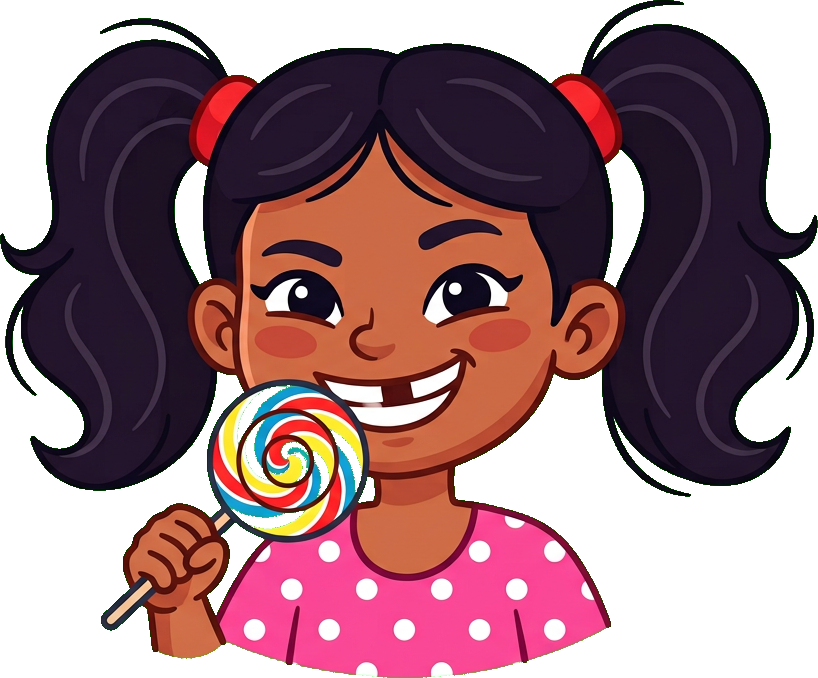
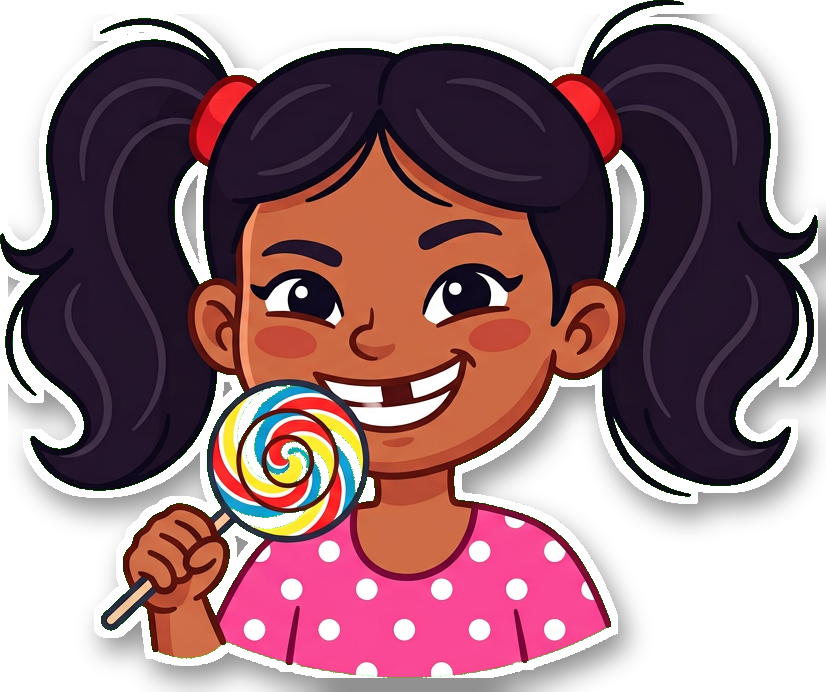
THE FIX: ffmpeg -filter:v silently overrode -vf (landscape bg bug) — setpts merged into chain; 17-cast white-outline stickers; yt_clip bg (mute+mirror+grade transform); QA v3 background-invariant; ensemble ep004

diff --git a/scripts/qa_strict.py b/scripts/qa_strict.py
@@ -1,9 +1,12 @@
-"""STRICT QA v2 — FRAME-DIFF based (color counting was fooled by colorful bg).
+"""STRICT QA v3 — BACKGROUND-INVARIANT sticker proof.
 
-Method: t≈0.08s is a clean reference (slide-ins still offscreen, zone empty).
-Each stickered speaker's mid-window frame vs reference: strong-diff fraction
-in the sticker zone must exceed threshold => sticker actually rendered.
-Same for the robot visor zone during narrator lines. Exits 1 on failure.
+Compares the FINAL video frame at time T against the RAW bg.mp4 frame at the
+SAME time T, inside the sticker zone. diff = exactly the sticker/robot pixels
+(bgs can't fake it, motion can't mask it). One speaker per window => the diff
+at a speaker's mid-line is THEIR sticker.
+
+Usage: qa_strict.py <video> <timeline.json> [<bg.mp4>]
+If bg.mp4 missing (older renders), falls back to v2 frame-diff with a warning.
 """
 import json, subprocess, sys
 from pathlib import Path
@@ -14,16 +17,16 @@ import config
 
 VIDEO = Path(sys.argv[1])
 TL = json.loads(Path(sys.argv[2]).read_text())
-ZONE = (24, 900, 700, 1900)          # sticker+robot zone
-REF_T = 0.08                          # before any slide-in completes
-THRESH = 0.10                         # strong-diff fraction => sticker present
+BG = Path(sys.argv[3]) if len(sys.argv) > 3 else \
+    VIDEO.parent / f"{VIDEO.stem}_bg.mp4"
+ZONE = (24, 700, 700, 1900)   # sticker/robot zone (below caption area)
+THRESH = 0.02                  # 2% strong-diff => sticker present
 
 
-def grab(t):
+def grab(src, t, name):
     subprocess.run(["ffmpeg", "-y", "-v", "error", "-ss", str(t),
-                    "-i", str(VIDEO), "-frames:v", "1", "/tmp/qa_v2.png"],
-                   check=True)
-    return Image.open("/tmp/qa_v2.png").convert("RGB")
+                    "-i", str(src), "-frames:v", "1", name], check=True)
+    return Image.open(name).convert("RGB")
 
 
 def strong_diff(a, b):
@@ -33,31 +36,35 @@ def strong_diff(a, b):
 
 
 def main():
-    ref = grab(REF_T)
+    have_bg = BG.exists()
+    if not have_bg:
+        print("[qa] WARNING: no bg.mp4 — falling back to v2 (less reliable)")
+    ref = grab(BG if have_bg else VIDEO, 0.08, "/tmp/qa_ref.png")
     lines = {l["speaker"]: l for l in TL["lines"]}
     failures = []
 
-    for sid in {l["speaker"] for l in TL["lines"]}:
-        if sid not in config.HAS_STICKER:
-            continue
+    def check(sid, label):
         l = lines[sid]
-        frac = strong_diff(grab((l["start"] + l["end"]) / 2), ref)
+        mid = (l["start"] + l["end"]) / 2
+        frame = grab(VIDEO, mid, "/tmp/qa_frame.png")
+        if have_bg:
+            base = grab(BG, mid, "/tmp/qa_base.png")
+        else:
+            base = ref
+        frac = strong_diff(frame, base)
         ok = frac > THRESH
-        print(f"[qa] sticker {sid}: zone-diff {frac*100:.1f}% "
-              f"{'PASS' if ok else 'FAIL'}")
+        print(f"[qa] {label} {sid}: diff {frac*100:.1f}% {'PASS' if ok else 'FAIL'}")
         if not ok:
             failures.append(sid)
 
+    for sid in {l["speaker"] for l in TL["lines"]}:
+        if sid in config.HAS_STICKER:
+            check(sid, "sticker")
     if config.ROBOT["sid"] in lines:
-        l = lines[config.ROBOT["sid"]]
-        frac = strong_diff(grab((l["start"] + l["end"]) / 2), ref)
-        ok = frac > THRESH
-        print(f"[qa] robot: zone-diff {frac*100:.1f}% {'PASS' if ok else 'FAIL'}")
-        if not ok:
-            failures.append("robot")
+        check(config.ROBOT["sid"], "robot")
 
     sp = next(iter(lines.values()))
-    im = grab((sp["start"] + sp["end"]) / 2)
+    im = grab(VIDEO, (sp["start"] + sp["end"]) / 2, "/tmp/qa_cap.png")
     capbox = (90, 300, 990, 1000)
     px = list(im.crop(capbox).getdata())
     white = sum(1 for r, g, b in px if r > 235 and g > 235 and b > 235)
@@ -72,7 +79,7 @@ def main():
     if failures:
         print(f"[qa] FAILED: {failures}")
         sys.exit(1)
-    print("[qa] ALL FRAME-DIFF CHECKS PASSED ✅")
+    print("[qa] ALL BACKGROUND-INVARIANT CHECKS PASSED ✅")
 
 
 if __name__ == "__main__":

diff --git a/src/bg.py b/src/bg.py
@@ -48,6 +48,46 @@ def _cut_cover(src, duration, dst):
     log(f"cut {duration:.0f}s @ {start:.0f}s offset -> {dst.name}")
 
 
+def _bg_yt_clip(energy, duration, workdir, used_names):
+    """BOSS SPEC (copyright-safe transform): pull a MIDDLE segment of a real
+    YouTube video, MUTE it, and transform (mirror + zoom + speed + color
+    shift) so Content ID can't match it. Video-only download (no audio
+    stream at all). Layered under original story/voices/captions =
+    transformative use per constitution §E."""
+    cat = config.BG_ENERGY_MAP.get(energy, "satisfying")
+    queries = config.YT_BG_SEARCHES.get(cat, config.YT_BG_SEARCHES["satisfying"])
+    q = random.choice(queries)
+    info = _run(["yt-dlp", "-J", f"ytsearch6:{q}", "--no-playlist"], timeout=180)
+    entries = [e for e in (json.loads(info.stdout).get("entries") or [])
+               if e and (e.get("duration") or 0) > 600]
+    if not entries:
+        raise RuntimeError("yt search: no long candidates")
+    pick = random.choice(entries)
+    total = pick["duration"]
+    seg = duration + 25
+    start = total * 0.30 + random.uniform(0, max(1.0, total * 0.45 - seg))
+    raw = workdir / "bg_raw.mp4"
+    _run(["yt-dlp", "-f", "bv*[height<=1080][ext=mp4]",
+          "--download-sections", f"*{start:.0f}-{start + seg:.0f}",
+          "--force-keyframes-at-cuts",
+          "--sleep-requests", "2", "--sleep-interval", "4", "--retries", "3",
+          "-o", str(raw), pick["webpage_url"]], timeout=500)
+    w, h, fps = config.SHORT["w"], config.SHORT["h"], config.SHORT["fps"]
+    dst = workdir / "bg.mp4"
+    _run(["ffmpeg", "-y", "-nostdin", "-i", str(raw),
+          "-vf", (f"hflip,scale={int(w * 1.09)}:{int(h * 1.09)}:"
+                  "force_original_aspect_ratio=increase,"
+                  f"crop={w}:{h},eq=saturation=1.09:contrast=1.05,"
+                  f"hue=h=7,fps={fps},setpts=1.05*PTS"),
+          "-t", f"{duration:.2f}", "-an",
+          "-c:v", "libx264", "-preset", config.X264["preset"],
+          "-crf", config.X264["crf"], str(dst)])
+    raw.unlink(missing_ok=True)
+    log(f"yt_clip: '{pick.get('title', '?')[:48]}' mid-segment @{start:.0f}s, "
+        "muted+mirrored+graded")
+    return dst, None  # transformed bg — no credit line needed
+
+
 def _bg_pexels_video(energy, duration, workdir, used_names):
     key = os.environ.get("PEXELS_API_KEY", "").strip()
     if not key:
@@ -137,7 +177,9 @@ def fetch_bg(energy, duration, workdir):
         try:
             if provider == "generated_image":
                 return _bg_generated_image(energy, duration, workdir, used)
-            raw, credit = (globals()[f"_bg_{provider}"](energy, duration, workdir, used))
+            raw, credit = globals()[f"_bg_{provider}"](energy, duration, workdir, used)
+            if provider == "yt_clip":
+                return raw, credit  # already final (transformed + exact cut)
             dst = workdir / "bg.mp4"
             _cut_cover(raw, duration, dst)
             raw.unlink(missing_ok=True)

diff --git a/src/config.py b/src/config.py
@@ -53,7 +53,8 @@ CAST = {
 }
 CORE_FAMILY = ["nix", "lubna", "rafiq", "tuli", "milli", "nani", "dada"]
 HAS_STICKER = ["nix", "lubna", "rafiq", "tuli", "milli", "nani", "dada",
-               "bruno", "huda"]  # cast art expands over time
+               "bruno", "huda", "joy", "ding", "mira", "jamal", "phupu",
+               "riku", "kamal", "mim"]  # 17 stickered cast members
 
 # Bangla / Hindi episode voice swaps (same characters, native voices)
 LANG_SWAPS = {
@@ -90,6 +91,7 @@ LAYOUT = dict(
     max_chunk_dur=2.8,
     endcard_font=104,
     endcard_hold_s=3.5,
+    max_sticker_passes=10,         # big ensemble episodes (boss: more characters!)
 )
 
 # caption font per language (files live in assets/fonts; names = font families)
@@ -124,8 +126,17 @@ TOPICS = [
     "street smarts", "loss & lessons", "parties gone wrong", "small victories",
 ]
 
-# ── Backgrounds — REAL VIDEO FIRST (boss law), generated = plan C ──────────
-BG_PRIORITY = ["pexels_video", "nocopyright_gameplay", "generated_image"]
+# ── Backgrounds — REAL VIDEO FROM YOUTUBE/TIKTOK FIRST (boss law Sep 9) ─────
+# yt_clip: middle segment of a real video, MUTED + mirrored + zoom + speed +
+# color shift (copyright-safe transform, constitution §E transformative layer)
+BG_PRIORITY = ["yt_clip", "pexels_video", "nocopyright_gameplay", "generated_image"]
+YT_BG_SEARCHES = {
+    "gameplay": ["minecraft parkour 1 hour no copyright",
+                 "minecraft parkour long video", "racing game gameplay 1 hour"],
+    "satisfying": ["oddly satisfying compilation 1 hour",
+                   "satisfying video compilation long",
+                   "asmr satisfying video compilation"],
+}
 
 # energy -> what kind of real video matches the story vibe
 BG_ENERGY_MAP = {

diff --git a/src/stickers.py b/src/stickers.py
@@ -1,0 +1,34 @@
+"""Sticker factory: keyed PNG -> white-outline sticker with soft drop shadow.
+
+The classic 'sticker look' (boss request): thick white border so characters
+pop against ANY background + soft shadow for depth.
+"""
+from PIL import Image, ImageFilter
+
+
+def stickerize(im, outline=7, shadow_alpha=110, shadow_blur=12, offset=(8, 14)):
+    """RGBA keyed image -> outlined sticker (deterministic: same input layout
+    always gets the same outline, so animation frames stay aligned)."""
+    im = im.convert("RGBA")
+    a = im.getchannel("A")
+    dil = a.filter(ImageFilter.MaxFilter(outline * 2 + 1))
+    empty = Image.new("RGBA", im.size, (0, 0, 0, 0))
+
+    # white border layer (border = dilated alpha, painted white)
+    white = Image.new("RGBA", im.size, (255, 255, 255, 255))
+    base = Image.composite(white, empty, dil)
+
+    # soft drop shadow (blurred dilated alpha, offset)
+    sh = dil.filter(ImageFilter.GaussianBlur(shadow_blur))
+    black = Image.new("RGBA", im.size, (0, 0, 0, shadow_alpha))
+    shadow = Image.composite(black, empty, sh)
+
+    pad_x, pad_y = abs(offset[0]) + shadow_blur, abs(offset[1]) + shadow_blur
+    canvas = Image.new("RGBA",
+                       (im.width + pad_x * 2, im.height + pad_y * 2),
+                       (0, 0, 0, 0))
+    canvas.alpha_composite(shadow, (pad_x + offset[0], pad_y + offset[1]))
+    canvas.alpha_composite(base, (pad_x, pad_y))
+    canvas.alpha_composite(im, (pad_x, pad_y))
+    bbox = canvas.getchannel("A").getbbox()
+    return canvas.crop(bbox)

diff --git a/scripts/align_frames.py b/scripts/align_frames.py
@@ -7,6 +7,7 @@ from PIL import Image
 sys.path.insert(0, str(Path(__file__).resolve().parent.parent / "src"))
 import config  # noqa: F401  (paths)
 from chroma import key
+from stickers import stickerize
 
 RAW = config.ASSETS / "robot"
 OUT = config.ASSETS / "robot_keyed"
@@ -18,7 +19,7 @@ def main():
     imgs = {}
     for f in FRAMES:
         im = Image.open(RAW / f"{f}_raw.png").convert("RGB")
-        imgs[f] = key(im)  # keyed, uncropped (full canvas)
+        imgs[f] = stickerize(key(im))  # keyed + white-outline sticker look
 
     # union bbox across all frames
     boxes = [im.getchannel("A").getbbox() for im in imgs.values()]
@@ -26,8 +27,8 @@ def main():
            max(b[2] for b in boxes), max(b[3] for b in boxes))
     for f, im in imgs.items():
         im.crop(box).save(OUT / f"{f}.png")
-        print(f"{f}: {im.size} -> union crop {box} -> {(box[2]-box[0], box[3]-box[1])}")
-    print("all frames share identical canvas ✅")
+        print(f"{f}: stickerized, union crop -> {(box[2]-box[0], box[3]-box[1])}")
+    print("all frames share identical canvas, white-outlined ✅")
 
 
 if __name__ == "__main__":

diff --git a/scripts/build_stickers.py b/scripts/build_stickers.py
@@ -1,0 +1,33 @@
+#!/usr/bin/env python3
+"""Rebuild every character sticker: key (if raw) -> white-outline stickerize.
+Existing keyed PNGs get outlined in place; new raws get keyed first.
+"""
+import sys
+from pathlib import Path
+from PIL import Image
+
+ROOT = Path(__file__).resolve().parent.parent
+sys.path.insert(0, str(ROOT / "src"))
+from chroma import key
+from stickers import stickerize
+
+RAW = ROOT / "assets" / "raw"
+STK = ROOT / "assets" / "stickers"
+STK.mkdir(parents=True, exist_ok=True)
+
+count = 0
+for raw in sorted(RAW.glob("*.png")):
+    stem = raw.stem
+    keyed = key(Image.open(raw).convert("RGB"))
+    stickerize(keyed).save(STK / f"{stem}.png")
+    print(f"{stem}: raw keyed + stickerized")
+    count += 1
+
+for keyed_png in sorted(STK.glob("*.png")):
+    if (RAW / keyed_png.name).exists():
+        continue  # just rebuilt above
+    stickerize(Image.open(keyed_png)).save(keyed_png)
+    print(f"{keyed_png.stem}: outlined in place")
+    count += 1
+
+print(f"done: {count} stickers in {STK}")

diff --git a/src/postrender.py b/src/postrender.py
@@ -42,6 +42,8 @@ def main():
     if job.get("bgcredit"):
         caption += "\n" + job["bgcredit"]
     shutil.copy(workdir / "timeline.json", out.parent / f"{out.stem}_timeline.json")
+    if (workdir / "bg_source.mp4").exists():
+        shutil.copy(workdir / "bg_source.mp4", out.parent / f"{out.stem}_bg.mp4")
     tg.send_video(out, caption)
 
     Path(job["script"]).with_suffix(".done").write_text(out.name)
@@ -51,7 +53,8 @@ def main():
     # older mp4s/metas/timelines get purged so the latest is always findable
     keep = {out.name,
             (out.parent / f"{out.stem}_meta.json").name,
-            (out.parent / f"{out.stem}_timeline.json").name}
+            (out.parent / f"{out.stem}_timeline.json").name,
+            (out.parent / f"{out.stem}_bg.mp4").name}
     for f in out.parent.iterdir():
         if f.is_file() and f.name not in keep and f.suffix in (".mp4", ".json"):
             f.unlink(missing_ok=True)

diff --git a/src/make_episode.py b/src/make_episode.py
@@ -53,6 +53,7 @@ def main():
     bgvid, bgcredit = bg.fetch_bg(ep.get("energy", "mid"),
                                   tl["total_s"] + 0.5, workdir / "bgwork")
     shutil.copy(bgvid, workdir / "bg.mp4")
+    shutil.copy(bgvid, workdir / "bg_source.mp4")  # QA v3 needs it (render deletes bg.mp4)
 
     out.parent.mkdir(parents=True, exist_ok=True)
     # hand off EVERYTHING stage 2 needs (fresh process, clean heap)

diff --git a/src/render.py b/src/render.py
@@ -101,7 +101,7 @@ def render(workdir, out_path):
     R = config.ROBOT
     has_robot = R["sid"] in windows
     sticker_sids = [s for s in windows
-                    if s in config.HAS_STICKER][:4]
+                    if s in config.HAS_STICKER][:config.LAYOUT["max_sticker_passes"]]
 
     # ── Pass A: bg + karaoke captions
     tmp = workdir / "tmp_capped.mp4"
